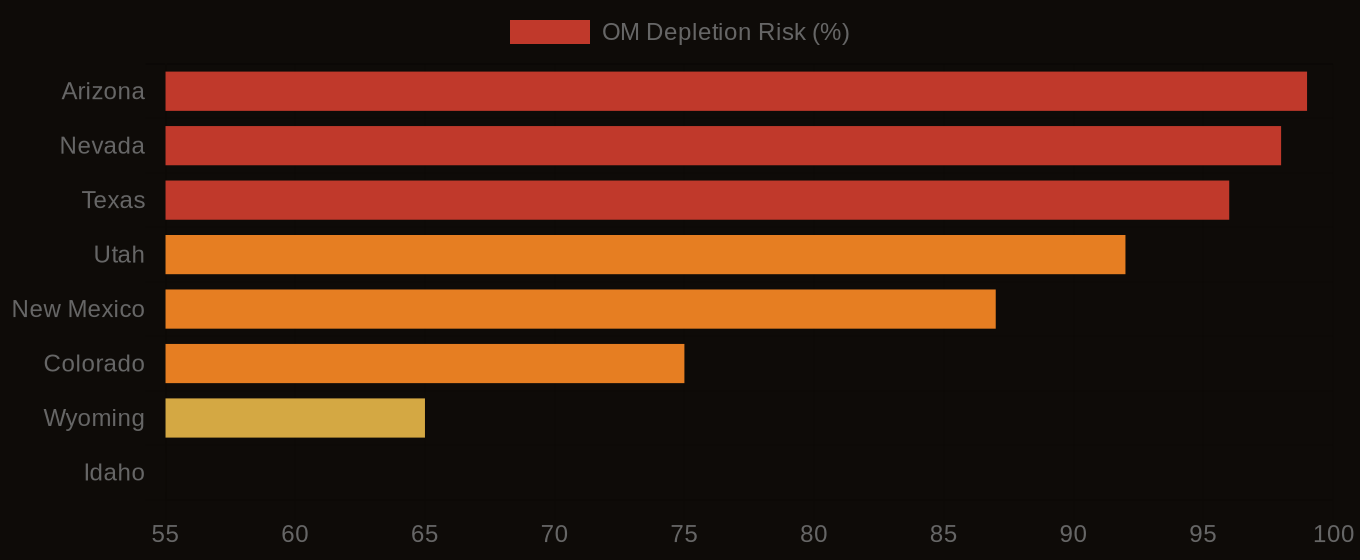
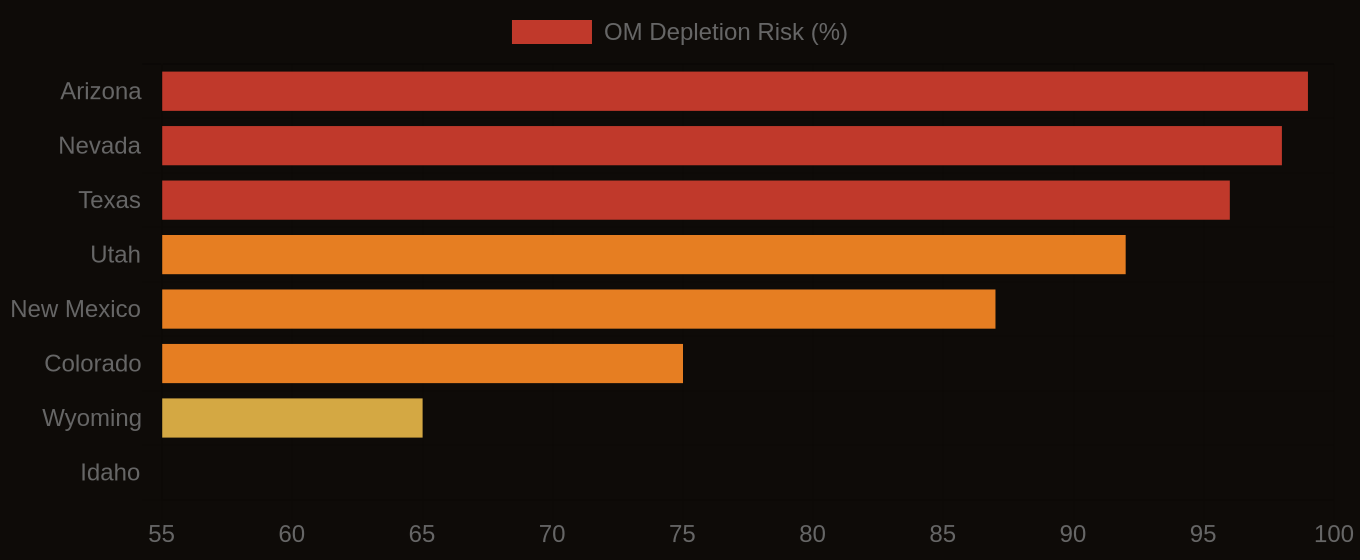
content: publish -- How Organic Matter Loss Is Priced Into Farmland Without Anyone Knowing

diff --git a/articles/how-organic-matter-loss-is-priced-into-farmland-without-anyo-1780621832620.html b/articles/how-organic-matter-loss-is-priced-into-farmland-without-anyo-1780621832620.html
@@ -3,7 +3,7 @@
 <head>
 <meta charset="UTF-8">
 <meta name="viewport" content="width=device-width, initial-scale=1.0">
-<title>How Organic Matter Loss Is Priced Into Farmland Without Anyone Knowing - Lab10YR</title>
+<title>How Organic Matter Loss Is Priced Into Farmland Without Anyone Knowing &mdash; Lab10YR</title>
 <meta name="description" content="Soil organic matter predicts long-term farm productivity. It's not on standard appraisal forms. This omission has significant implications. Soil organic matter, or soil carbon, is key to land valuation, yet overlooked in the process. ">
 <link rel="canonical" href="https://lab10yr.com/articles/how-organic-matter-loss-is-priced-into-farmland-without-anyo-1780621832620">
 <meta property="og:type" content="article">
@@ -25,7 +25,7 @@
 <script src="https://cdn.jsdelivr.net/npm/echarts@5/dist/echarts.min.js" defer id="echarts-js"></script>
 <style>
 *{box-sizing:border-box;margin:0;padding:0}
-:root{--gold:#f59e0b;--gold2:#fcd34d;--rust:#c0392b;--bg:#08080c;--bg2:#101018;--muted:#8a7a6a;--soft:#c8beb4;--ff-serif:'Playfair Display',Georgia,serif;--ff-mono:'DM Mono',monospace;--ff-sans:'DM Sans',system-ui,sans-serif;}
+:root{--gold:#c8973a;--gold2:#e8c46a;--rust:#c0392b;--bg:#0e0b08;--bg2:#13100d;--muted:#8a7a6a;--soft:#c8beb4;--ff-serif:'Playfair Display',Georgia,serif;--ff-mono:'DM Mono',monospace;--ff-sans:'DM Sans',system-ui,sans-serif;}
 html{scroll-behavior:smooth}
 body{background:var(--bg);color:#f0ede8;font-family:Georgia,'Times New Roman',serif;line-height:1.78}
 #progress{position:fixed;top:0;left:0;height:2px;background:var(--gold);z-index:200;width:0;transition:width .1s linear}
@@ -141,16 +141,23 @@ h1{font-family:var(--ff-serif);font-size:clamp(2.2rem,4.2vw,3.8rem);line-height:
 @media(max-width:900px){nav{padding:0 16px}.hero-grid{grid-template-columns:1fr;padding:0 20px;gap:32px}.hero-waffle-wrap{display:none}#article-wrap{grid-template-columns:1fr;padding:48px 20px 0}.sidebar{display:none}.callout-row{grid-template-columns:1fr}#article-footer{padding-left:20px;padding-right:20px}}
 .data-table-wrap{margin:20px 0 4px;overflow-x:auto}.data-table{width:100%;border-collapse:collapse;font-family:var(--ff-mono);font-size:10px}.data-table th{text-align:left;color:var(--gold);font-size:8px;letter-spacing:.12em;text-transform:uppercase;padding:7px 10px;border-bottom:1px solid #3a2e20}.data-table td{padding:6px 10px;border-bottom:1px solid #1e1710;color:var(--soft)}.data-table tr:hover td{background:#13100d}.data-val{color:#f0ede8;font-weight:600;text-align:right}.data-table-source{font-family:var(--ff-mono);font-size:8px;color:#5a4a3a;letter-spacing:.06em;margin-top:5px;text-align:right}
 </style>
-<link rel="stylesheet" href="../assets/lab10yr-theme.css?v=20260723b">
 </head>
 <body>
 <div id="progress"></div>
-<nav id="nav"><a class="nav-link" href="/articles/" style="display:none">Articles</a></nav>
+<nav>
+  <a href="https://lab10yr.com" class="nav-brand"><span>Lab</span>10<em style="font-style:normal;color:var(--gold2)">YR</em></a>
+  <div class="nav-links">
+    <a href="https://lab10yr.com/Regenerative-Agriculture-Risk-Map" rel="noopener noreferrer">Risk Map</a>
+    <a href="https://lab10yr.com/soil-data-stories" rel="noopener noreferrer">Data Stories</a>
+    <a href="https://lab10yr.com/articles/" rel="noopener noreferrer">Articles</a>
+    <a href="https://lab10yr.com/#contact" class="nav-cta" rel="noopener noreferrer">Get in Touch</a>
+  </div>
+</nav>
 
 <section id="hero">
   <div class="hero-grid">
     <div>
-      <div class="hero-kicker">Lab10YR - Soil Intelligence</div>
+      <div class="hero-kicker">Lab10YR &mdash; Soil Intelligence</div>
       <h1>How Organic Matter Loss Is Priced Into Farmland Without Anyone Knowing</h1>
       <p class="hero-deck">Soil organic matter predicts long-term farm productivity. It's not on standard appraisal forms. This omission has significant implications. Soil organic matter, or soil carbon, is key to land valuation, yet overlooked in the process. </p>
       <div class="hero-byline">
@@ -161,7 +168,7 @@ h1{font-family:var(--ff-serif);font-size:clamp(2.2rem,4.2vw,3.8rem);line-height:
       </div>
     </div>
     <div class="hero-waffle-wrap">
-      <div class="waffle-label">OM depletion risk - 100 map units</div>
+      <div class="waffle-label">OM depletion risk — 100 map units</div>
       <div class="waffle-grid" id="waffle"></div>
       <div class="waffle-legend"><div class="wl"><div class="wl-swatch wc-high"></div> High</div><div class="wl"><div class="wl-swatch wc-mod-high"></div> Mod. High</div><div class="wl"><div class="wl-swatch wc-mod"></div> Moderate</div><div class="wl"><div class="wl-swatch wc-low"></div> Low</div></div>
       <div class="waffle-stat">71.6%</div>
@@ -172,7 +179,7 @@ h1{font-family:var(--ff-serif);font-size:clamp(2.2rem,4.2vw,3.8rem);line-height:
 
 <section id="hero-viz">
   <figure class="hero-viz-fig">
-    <img src="social-how-organic-matter-loss-is-priced-into-farmland-without-anyo-1780621832620.png" alt="How Organic Matter Loss Is Priced Into Farmland Without Anyone Knowing - Lab10YR data visualization" loading="eager" width="1200" height="627">
+    <img src="social-how-organic-matter-loss-is-priced-into-farmland-without-anyo-1780621832620.png" alt="How Organic Matter Loss Is Priced Into Farmland Without Anyone Knowing — Lab10YR data visualization" loading="eager" width="1200" height="627">
   </figure>
 </section>
 
@@ -180,16 +187,16 @@ h1{font-family:var(--ff-serif);font-size:clamp(2.2rem,4.2vw,3.8rem);line-height:
 <article id="article">
   <div class="article-section">
     <p class="dropcap">Soil organic matter predicts long-term farm productivity. It's not on standard appraisal forms. This omission has significant implications. Soil organic matter, or soil carbon, is key to land valuation, yet overlooked in the process.</p>
-    <p>The National Cooperative Soil Survey maintains the SSURGO national dataset, which provides a comprehensive understanding of soil quality across the United States. With 13.3% of rated map units carrying a Fragile or higher FSI rating, the risk of soil degradation is high. This translates to 28,122 of 211,283 rated map units. The national average Fragile Soil Index value is 0.272 on a 0-to-1 scale, where values above 0.5 indicate elevated fragility risk. These numbers suggest widespread concern for soil quality, with many map units exhibiting some level of fragility.</p>
+    <p>The USDA-NRCS maintains the SSURGO national dataset, which provides a comprehensive understanding of soil health across the United States. With 13.3% of rated map units carrying a Fragile or higher FSI rating, the risk of soil degradation is high. This translates to 28,122 of 211,283 rated map units. The national average Fragile Soil Index value is 0.272 on a 0-to-1 scale, where values above 0.5 indicate elevated fragility risk. These numbers suggest widespread concern for soil health, with many map units exhibiting some level of fragility.</p>
   </div>
 
-  <div class="pull"><div class="pull-text">“13.3% of rated SSURGO map units carry a Fragile or higher FSI rating - This indicates a significant risk of soil degradation across a substantial portion of the country's soil map units.”</div><div class="pull-attr">Lab10YR Analysis - SSURGO National Dataset</div></div>
+  <div class="pull"><div class="pull-text">“13.3% of rated SSURGO map units carry a Fragile or higher FSI rating — This indicates a significant risk of soil degradation across a substantial portion of the country's soil map units.”</div><div class="pull-attr">Lab10YR Analysis — SSURGO National Dataset</div></div>
 
   
   <div class="article-section">
     <div class="section-rule"><h2>The Regional Concentration</h2></div>
     <p>A closer look at the SSURGO dataset reveals a disturbing trend. Organic matter depletion risk is Moderately high or High in 71.6% of rated map units, totaling 224,419 of 313,591 OM-rated map units. Certain states stand out: Arizona, Nevada, and Texas have the highest share of Moderately high or High OM depletion ratings, at 99%, 98%, and 96%, respectively. Nevada, Arizona, and Utah have the highest average FSI values, at 0.521, 0.495, and 0.405, respectively. The numbers are alarming.</p>
-    <p>The SSURGO data has significant implications. Farmland appraisers, conservation easement buyers, and agricultural economists must consider soil quality in land valuation. By incorporating soil intelligence, they can make more informed decisions. Conservation easement buyers, in particular, need to consider long-term productivity and sustainability. Soil organic matter loss can devastate farm productivity, making it essential to factor this into land valuation.</p>
+    <p>The SSURGO data has significant implications. Farmland appraisers, conservation easement buyers, and agricultural economists must consider soil health in land valuation. By incorporating soil intelligence, they can make more informed decisions. Conservation easement buyers, in particular, need to consider long-term productivity and sustainability. Soil organic matter loss can devastate farm productivity, making it essential to factor this into land valuation.</p>
     <div class="callout-row">
       <div class="callout">
         <div class="callout-num">13.3% of rated SSURGO map units carry a Fragile or higher FSI rating</div>
@@ -197,7 +204,7 @@ h1{font-family:var(--ff-serif);font-size:clamp(2.2rem,4.2vw,3.8rem);line-height:
       </div>
       <div class="callout">
         <div class="callout-num">71.6% of rated map units show Moderately high or High organic matter depletion risk</div>
-        <div class="callout-label">This suggests a widespread concern for soil quality and organic matter loss.</div>
+        <div class="callout-label">This suggests a widespread concern for soil health and organic matter loss.</div>
       </div></div>
   </div>
 
@@ -217,20 +224,20 @@ h1{font-family:var(--ff-serif);font-size:clamp(2.2rem,4.2vw,3.8rem);line-height:
       <div class="state-bars-title">Top states by share of map units rated Mod. High or High OM depletion</div>
       <div id="state-bars-list"></div>
     </div>
-    <p>Tools like those at lab10yr.com can change the decision-making process. Professionals can access detailed soil data and maps, enabling more accurate assessments of land value and potential. This helps identify areas of high conservation value, where preserving and restoring soil quality can have the greatest impact. Interactive map: Soil organic matter depletion risk across the United States at lab10yr.com/soilhealth.</p>
-    <p>Soil quality matters. The SSURGO data shows soil organic matter loss is a widespread concern with significant implications for farm productivity and long-term sustainability. By prioritizing soil intelligence, farmland appraisers, conservation easement buyers, and agricultural economists can make more informed decisions.com, or support this work at ko-fi.com/lab10yr. 
+    <p>Tools like those at lab10yr.com can change the decision-making process. Professionals can access detailed soil data and maps, enabling more accurate assessments of land value and potential. This helps identify areas of high conservation value, where preserving and restoring soil health can have the greatest impact. Interactive map: Soil organic matter depletion risk across the United States at lab10yr.com/soilhealth.</p>
+    <p>Soil health matters. The SSURGO data shows soil organic matter loss is a widespread concern with significant implications for farm productivity and long-term sustainability. By prioritizing soil intelligence, farmland appraisers, conservation easement buyers, and agricultural economists can make more informed decisions.com, or support this work at ko-fi.com/lab10yr. 
 MAP REFERENCE: Soil organic matter depletion risk across the United States at lab10yr.com/soilhealth.</p>
   </div>
 
   <div class="map-section">
-    <h2>Organic Matter Depletion Risk - State Overview</h2>
+    <h2>Organic Matter Depletion Risk — State Overview</h2>
     <div class="map-caption">Share of map units rated Mod. High or High OM depletion risk · Source: SSURGO</div>
     <img class="map-chart" src="state-chart-how-organic-matter-loss-is-priced-into-farmland-without-anyo-1780621832620.png" alt="Arizona 99%, Nevada 98%, Texas 96%, Utah 92%, New Mexico 87%, Colorado 75%, Wyoming 65%, Idaho 55%" loading="lazy">
     <div class="map-wrap">
       <div id="state-map"></div>
       <div id="map-tip" class="map-tip"></div>
     </div>
-    <div class="map-note">Interactive map - hover for state-level data &middot; click to open the full risk map</div>
+    <div class="map-note">Interactive map &mdash; hover for state-level data &middot; click to open the full risk map</div>
   </div>
 
   <div class="article-section">
@@ -240,7 +247,7 @@ MAP REFERENCE: Soil organic matter depletion risk across the United States at la
 
   <div class="map-cta-full">
     <a href="https://lab10yr.com/Regenerative-Agriculture-Risk-Map" target="_blank" rel="noopener noreferrer" class="map-btn">&#x1F5FA; Explore the Soil Risk Map &rarr;</a>
-    <div class="map-cta-desc">County-level organic matter depletion and fragile soil index risk across the continental U.S. - with live SSURGO lookup.</div>
+    <div class="map-cta-desc">County-level organic matter depletion and fragile soil index risk across the continental U.S. — with live SSURGO lookup.</div>
   </div>
 </article>
 
@@ -252,11 +259,11 @@ MAP REFERENCE: Soil organic matter depletion risk across the United States at la
   </div><div class="sidebar-block">
     <div class="sidebar-label">Arizona</div>
     <div class="sidebar-stat-num" style="color:#c0392b">99%</div>
-    <div class="sidebar-stat-label">of map units rated Mod. High or High OM depletion - highest in the nation</div>
+    <div class="sidebar-stat-label">of map units rated Mod. High or High OM depletion — highest in the nation</div>
   </div><div class="sidebar-block">
     <div class="sidebar-label">Fragile Soil Index</div>
     <div class="sidebar-stat-num">0.272</div>
-    <div class="sidebar-stat-label">National average FSI - compounds OM risk in high-fragility states</div>
+    <div class="sidebar-stat-label">National average FSI — compounds OM risk in high-fragility states</div>
   </div>
   <div class="sidebar-block">
     <div class="sidebar-label">Explore the Data</div>
@@ -287,7 +294,7 @@ MAP REFERENCE: Soil organic matter depletion risk across the United States at la
     <a href="https://lab10yr.com/Regenerative-Agriculture-Risk-Map" target="_blank" rel="noopener noreferrer">Regenerative Agriculture Risk Map &rarr;</a>
     <a href="https://lab10yr.com/soil-data-stories" target="_blank" rel="noopener noreferrer">The World Beneath: 7-Chapter Data Story on America&rsquo;s Soils &rarr;</a>
     <a href="https://lab10yr.com/county-risk-leaderboard" target="_blank" rel="noopener noreferrer">County Risk Leaderboard &rarr;</a>
-    <a href="https://lab10yr.com/soil-atlas" target="_blank" rel="noopener noreferrer">Soil Atlas - Interactive National Soil Pattern Explorer &rarr;</a>
+    <a href="https://lab10yr.com/soil-atlas" target="_blank" rel="noopener noreferrer">Soil Atlas &mdash; Interactive National Soil Pattern Explorer &rarr;</a>
   </div>
 </div>
 
@@ -300,7 +307,7 @@ document.addEventListener('DOMContentLoaded',()=>{if(typeof maplibregl!=='undefi
 function stateColor(d){const om=d.om||0;return om>=90?'rgba(192,57,43,0.75)':om>=70?'rgba(230,126,34,0.65)':om>=50?'rgba(200,151,58,0.5)':om>0?'rgba(200,151,58,0.3)':'rgba(30,23,16,0.4)';}
 function initMap(){if(!document.getElementById('state-map')||window._mi)return;window._mi=true;const map=new maplibregl.Map({container:'state-map',style:{version:8,sources:{c:{type:'raster',tiles:['https://basemaps.cartocdn.com/dark_nolabels/{z}/{x}/{y}.png'],tileSize:256,attribution:'&copy; CARTO &copy; OSM'}},layers:[{id:'c',type:'raster',source:'c'}]},center:[-98,38],zoom:3.4,maxZoom:8,minZoom:2,attributionControl:false});map.addControl(new maplibregl.AttributionControl({compact:true}));map.addControl(new maplibregl.NavigationControl({showCompass:false}),'top-right');const sd={'NV':{fsi:0.521,om:98},'AZ':{fsi:0.495,om:99},'UT':{fsi:0.41,om:92},'NM':{fsi:0.38,om:87},'WY':{fsi:0.32,om:65},'CO':{fsi:0.29,om:75},'ID':{fsi:0.27,om:55},'MT':{fsi:0.24,om:45},'CA':{fsi:0.22,om:60},'TX':{fsi:0.21,om:96},'OR':{fsi:0.20,om:48},'WA':{fsi:0.19,om:42},'KS':{fsi:0.16,om:70},'NE':{fsi:0.15,om:65},'OK':{fsi:0.14,om:72},'SD':{fsi:0.18,om:38},'ND':{fsi:0.17,om:35},'MN':{fsi:0.13,om:25},'IA':{fsi:0.12,om:22},'MO':{fsi:0.11,om:30},'IL':{fsi:0.10,om:28},'IN':{fsi:0.09,om:26},'OH':{fsi:0.09,om:24},'MI':{fsi:0.08,om:22}};const fp={'32':'NV','04':'AZ','49':'UT','35':'NM','56':'WY','08':'CO','16':'ID','30':'MT','06':'CA','48':'TX','41':'OR','53':'WA','20':'KS','31':'NE','40':'OK','46':'SD','38':'ND','27':'MN','19':'IA','29':'MO','17':'IL','18':'IN','39':'OH','26':'MI'};map.on('load',()=>{fetch('/articles/us-states-topo.json').then(r=>r.json()).then(topo=>{const gj=topojson.feature(topo,topo.objects.states);gj.features.forEach(f=>{const a=fp[f.id]||'';const d=sd[a]||{};f.properties.abbr=a;f.properties.fsi=d.fsi||0;f.properties.om=d.om||0;f.properties.color=stateColor(d);});map.addSource('states',{type:'geojson',data:gj});map.addLayer({id:'sf',type:'fill',source:'states',paint:{'fill-color':['get','color'],'fill-outline-color':'rgba(200,151,58,0.25)'}});map.addLayer({id:'sl',type:'line',source:'states',paint:{'line-color':'rgba(200,151,58,0.2)','line-width':0.5}});const tip=document.getElementById('map-tip');map.on('mousemove','sf',e=>{const f=e.features[0];if(!f){tip.style.display='none';return;}map.getCanvas().style.cursor='pointer';const a=f.properties.abbr,fsi=f.properties.fsi,om=f.properties.om;tip.innerHTML=a?`<strong>${a}</strong><br>OM Depletion: ${om?om+"%":"n/a"}<br>Avg FSI: ${fsi?fsi.toFixed(3):"n/a"}`:'<em>No data</em>';tip.style.display='block';});map.on('mouseleave','sf',()=>{map.getCanvas().style.cursor='';tip.style.display='none';});map.on('click','sf',()=>{window.open('https://lab10yr.com/Regenerative-Agriculture-Risk-Map','_blank','noopener');});}).catch(e=>console.error('Map load failed:',e));});}
 (function(){document.querySelectorAll('.callout-num').forEach(function(el){var raw=el.textContent.trim();var m=raw.match(/^(d[d.,]*)/);if(!m)return;var num=parseFloat(m[1].replace(/,/g,''));var suffix=raw.slice(m[1].length);var dec=raw.indexOf('.')>=0?1:0;el.textContent='0'+suffix;new IntersectionObserver(function(entries,obs){if(!entries[0].isIntersecting)return;obs.disconnect();var t=null;function step(ts){if(!t)t=ts;var p=Math.min((ts-t)/900,1);var e=1-Math.pow(1-p,3);el.textContent=(e*num).toFixed(dec)+suffix;if(p<1)requestAnimationFrame(step);else el.textContent=num.toFixed(dec).replace(/.0$/,'')+suffix;}requestAnimationFrame(step);},{threshold:0.6}).observe(el);});})();
-(function(){const u=encodeURIComponent(location.href),t=encodeURIComponent(document.title.replace(' - Lab10YR',''));document.getElementById('share-x').href='https://twitter.com/intent/tweet?url='+u+'&text='+t+'&via=lab10yr';document.getElementById('share-li').href='https://www.linkedin.com/sharing/share-offsite/?url='+u;document.getElementById('share-copy').addEventListener('click',function(){navigator.clipboard.writeText(location.href).then(()=>{this.textContent='Copied!';setTimeout(()=>this.textContent='Copy Link',2000);});});})();
+(function(){const u=encodeURIComponent(location.href),t=encodeURIComponent(document.title.replace(' — Lab10YR',''));document.getElementById('share-x').href='https://twitter.com/intent/tweet?url='+u+'&text='+t+'&via=lab10yr';document.getElementById('share-li').href='https://www.linkedin.com/sharing/share-offsite/?url='+u;document.getElementById('share-copy').addEventListener('click',function(){navigator.clipboard.writeText(location.href).then(()=>{this.textContent='Copied!';setTimeout(()=>this.textContent='Copy Link',2000);});});})();
 (function(){
   const cfg={"backgroundColor":"transparent","grid":{"left":20,"right":20,"top":20,"bottom":60,"containLabel":true},"xAxis":{"type":"category","data":["Southwest","Great Plains","Southeast","Corn Belt","Mountain West","Pacific NW","Northeast"],"axisLabel":{"color":"#c8beb4","fontSize":9,"rotate":30},"axisLine":{"show":false},"axisTick":{"show":false}},"yAxis":{"type":"value","axisLabel":{"color":"#8a7a6a","fontSize":10},"splitLine":{"lineStyle":{"color":"#1e1710"}}},"legend":{"bottom":0,"textStyle":{"color":"#8a7a6a","fontSize":9},"icon":"rect","itemWidth":10,"itemHeight":10},"tooltip":{"trigger":"axis","axisPointer":{"type":"shadow"},"backgroundColor":"#13100d","borderColor":"#3a2e20","textStyle":{"color":"#f0ede8","fontSize":11}},"series":[{"name":"Very High","type":"bar","stack":"total","data":[72,48,38,22,61,18,12],"itemStyle":{"color":"#c0392b"}},{"name":"High","type":"bar","stack":"total","data":[20,32,30,28,22,24,20],"itemStyle":{"color":"#e67e22"}},{"name":"Moderate","type":"bar","stack":"total","data":[6,14,22,32,12,36,40],"itemStyle":{"color":"#d4a843"}},{"name":"Low","type":"bar","stack":"total","data":[2,6,10,18,5,22,28],"itemStyle":{"color":"#2d6a4f"}}]};
   function tryInit(){
@@ -334,6 +341,5 @@ window.addEventListener('load',function(){
   }
 });
 </script>
-<script src="../js/lab10yr-nav.js?v=20260723b" defer></script>
 </body>
 </html>

diff --git a/articles/index.html b/articles/index.html
@@ -753,7 +753,7 @@ footer span{font-family:var(--ff-mono);font-size:9px;color:#2a1e0f}
     <a href="/articles/how-organic-matter-loss-is-priced-into-farmland-without-anyo-1780621832620" class="card-link">
       <div class="card-meta">
         <span class="card-date">June 5, 2026</span>
-        <span class="card-tag">Soil Intelligence</span>
+        <span class="card-tag">Soil</span>
         <span class="card-read">6 min read</span>
       </div>
       <h2 class="card-title">How Organic Matter Loss Is Priced Into Farmland Without Anyone Knowing</h2>
